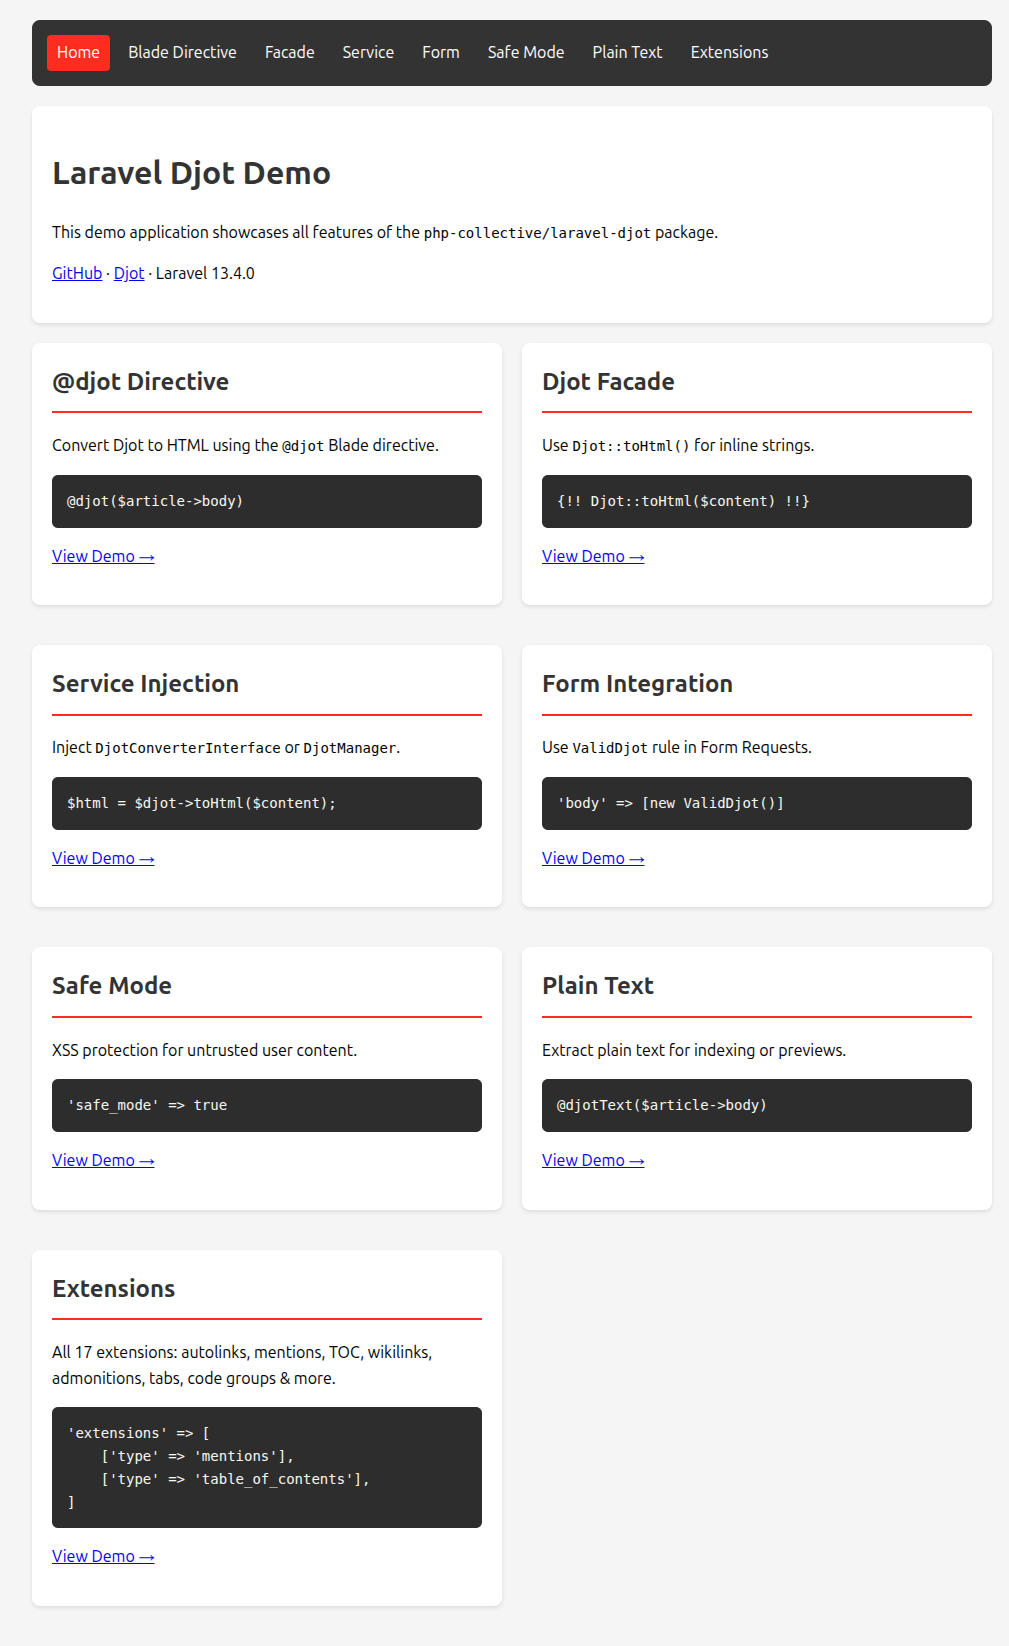
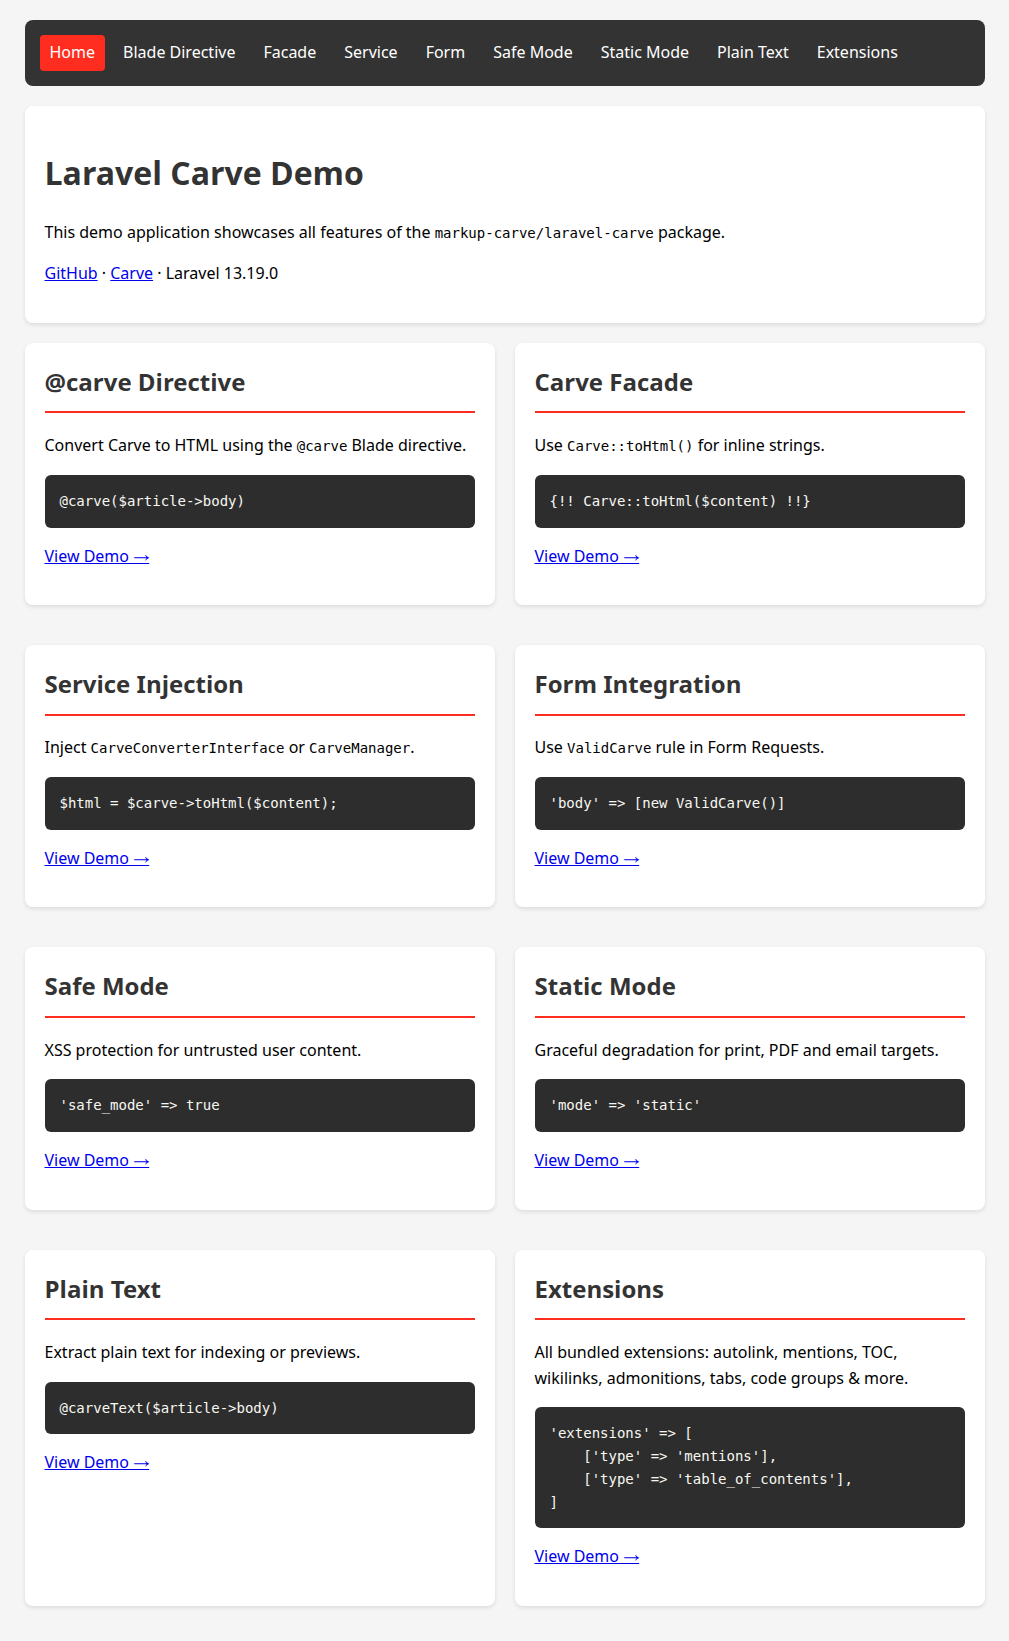
Refresh screenshots from the current Carve demo, fix stale copy (#1)
The screenshots still showed the old Laravel Djot demo. Reshot home and
blade-directive from the running app. Copy fixes: extension count claim
replaced with a stable wording, code fences use the canonical no-space
info string.

diff --git a/app/Http/Controllers/DemoController.php b/app/Http/Controllers/DemoController.php
@@ -29,7 +29,7 @@ class DemoController extends Controller
 
     ### Code Example
 
-    ``` php
+    ```php
     $html = $carve->toHtml('Hello *world*!');
     ```
 
@@ -274,7 +274,7 @@ class DemoController extends Controller
 
         $codeGroupSource = <<<'CARVE'
         ::: code-group
-        ``` php [Composer]
+        ```php [Composer]
         composer require markup-carve/laravel-carve
         ```
 

diff --git a/resources/views/demo/extensions.blade.php b/resources/views/demo/extensions.blade.php
@@ -5,7 +5,7 @@
 @section('body')
 <div class="card">
     <h1>Extensions Demo</h1>
-    <p>Carve supports various extensions to enhance markup capabilities. All 17 extensions from markup-carve/carve-php are available.</p>
+    <p>Carve supports various extensions to enhance markup capabilities. All bundled markup-carve/carve-php extensions are available - autolink, mentions, table of contents, wikilinks, admonitions, tabs, code groups and more.</p>
 </div>
 
 <div class="card">

diff --git a/resources/views/demo/index.blade.php b/resources/views/demo/index.blade.php
@@ -67,7 +67,7 @@
 
     <div class="card">
         <h2>Extensions</h2>
-        <p>All 17 extensions: autolinks, mentions, TOC, wikilinks, admonitions, tabs, code groups &amp; more.</p>
+        <p>All bundled extensions: autolink, mentions, TOC, wikilinks, admonitions, tabs, code groups &amp; more.</p>
         <pre><code>'extensions' => [
     ['type' => 'mentions'],
     ['type' => 'table_of_contents'],